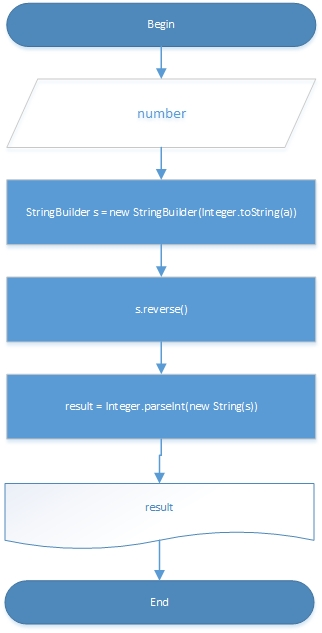
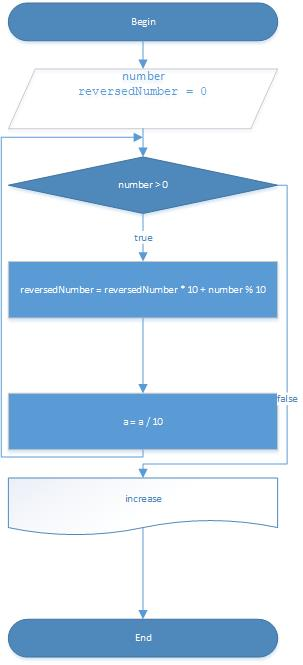
modified reverse

diff --git a/task2/src/epam/dukhanin/seventh/Reverse.java b/task2/src/epam/dukhanin/seventh/Reverse.java
@@ -2,8 +2,12 @@ package epam.dukhanin.seventh;
 
 public class Reverse {
     public static int reverseNumber(int a) {
-        StringBuilder s = new StringBuilder(Integer.toString(a));
-        s.reverse();
-        return Integer.parseInt(new String(s));
+        int reversedNumber = 0;
+        while (a > 0) {
+            reversedNumber = reversedNumber * 10 + a % 10;
+            a = a / 10;
+        }
+
+        return reversedNumber;
     }
 }
